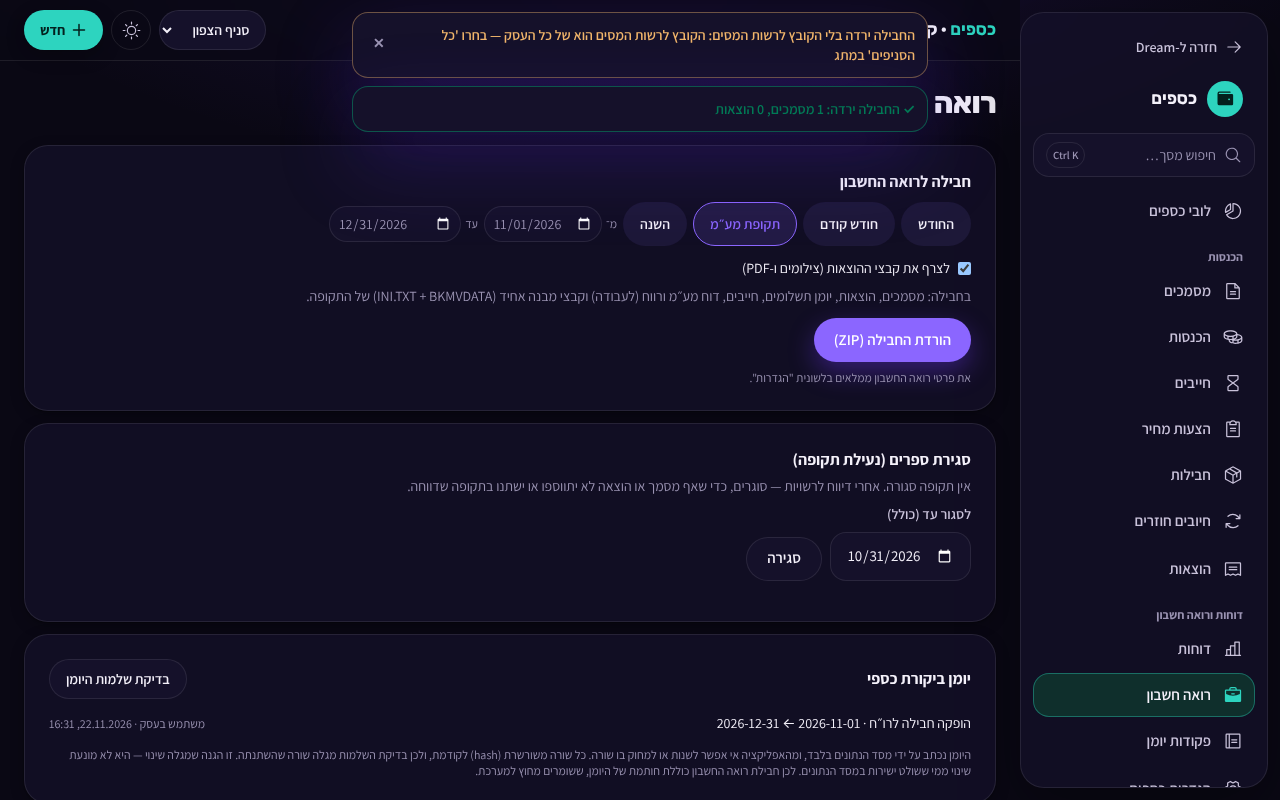
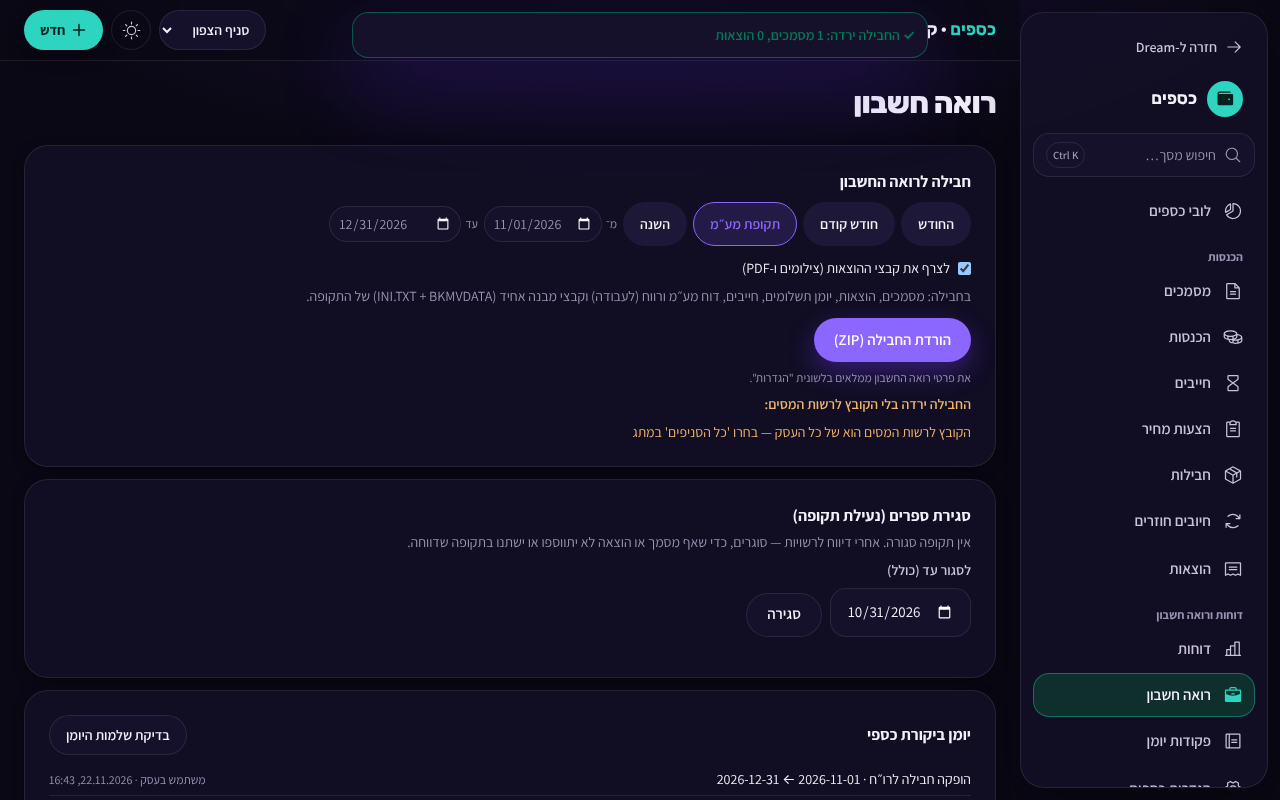
e2e: ההודעה בכרטיס (export-scope); בדיקה חדשה לכפתור 'להציג את כל הסניפים'; צילומים
Claude-Session: https://claude.ai/code/session_018yyE7BvpWCn9RuJdDRKX7d

diff --git a/dream-promotion/tests/e2e/export-scope-hidden-switch.e2e.ts b/dream-promotion/tests/e2e/export-scope-hidden-switch.e2e.ts
@@ -1,0 +1,238 @@
+/**
+ * 2.118, round 2 (complements export-scope.e2e.ts, which is left as it was): the message is now in the card "חבילה לרואה החשבון"
+ * (ScopeNote), not a toast, and with no switch at the top (one active location left, a location closed since still picked on the
+ * profile) it comes with a button "להציג את כל הסניפים".
+ *   (1) one active location + a closed one picked: the package without the Tax Authority's part, the message in the card with the button;
+ *   (2) the button: the app reloads on "all locations", and the package has INI.TXT / BKMVDATA.zip;
+ *   (3) two active locations, one picked: the message in the card, NO button (the switch is there); a member limited: the same, no button.
+ * Run: npx -y tsx tests/e2e/export-scope-hidden-switch.e2e.ts   (next dev on port 3229)
+ * Screenshots: docs/screenshots/2.117.1/ (EXPORT_SCOPE_SHOTS=<dir> to change).
+ */
+import { spawn, type ChildProcess } from 'node:child_process';
+import { mkdirSync, readFileSync } from 'node:fs';
+import path from 'node:path';
+import assert from 'node:assert/strict';
+import JSZip from 'jszip';
+import { FakeSupabase, session, type Tables } from './fake-supabase';
+
+const ROOT = path.resolve(__dirname, '../..');
+const PORT = Number(process.env.E2E_EXPORT_SCOPE2_PORT ?? 3229);
+const BASE = `http://localhost:${PORT}`;
+const SHOTS = process.env.EXPORT_SCOPE_SHOTS ?? path.join(ROOT, 'docs/screenshots/2.117.1');
+const BIZ = 'b0000000-0000-4000-8000-0000000000e1';
+const OWNER = 'a0000000-0000-4000-8000-0000000000e1';
+const NORTH = 'c0000000-0000-4000-8000-0000000000e1';
+const PHONE = { width: 390, height: 844 };
+const DESK = { width: 1280, height: 800 };
+const today = new Intl.DateTimeFormat('en-CA', { timeZone: 'Asia/Jerusalem' }).format(new Date());
+
+function seed(): Tables {
+  const base = { user_id: OWNER, business_id: BIZ, created_at: '2026-01-01T00:00:00Z' };
+  return {
+    brands: [{ ...base, name: 'קליניקה לייט', onboarded: true, industry: 'קוסמטיקה', colors: ['#6B3BF5', '#FF7FA8'], goals: [] }],
+    register_settings: [{ ...base, business_type: 'licensed', entity_type: 'company', vat_rate: 18, pay_link: '', dealer_number: '000000109', legal_name: 'קליניקה לייט בע״מ',
+      street: 'הרצל', house_no: '1', city: 'תל אביב', zip: '' }],
+    business_finance_profile: [], business_members: [{ business_id: BIZ, user_id: OWNER, role: 'owner', access: 'full' }],
+    catalog_items: [], employees: [], leads: [], sales: [], register_shifts: [], booking_services: [], booking_settings: [], appointments: [],
+    // two invoices, one in each location (the main location's id is the business's)
+    documents: [
+      { ...base, id: '90000000-0000-4000-8000-0000000000e1', doc_type: 305, doc_number: 1, link_no: 1, issued_at: `${today}T08:00:00Z`, doc_date: today,
+        customer_name: 'דנה כהן', customer_phone: '', customer_dealer: '', lead_id: null, before_discount: 500, discount: 0, after_discount: 500, vat_amount: 90, total: 590,
+        vat_rate: 18, lines: [{ name: 'טיפול', qty: 1, unitPriceExVat: 500, discountExVat: 0, totalExVat: 500, vatRate: 18, kind: 1 }], payments: [], print_count: 1,
+        share_token: 'a'.repeat(64), issuer: null, source: 'direct', due_date: today, notes: '', location_id: BIZ },
+      { ...base, id: '90000000-0000-4000-8000-0000000000e2', doc_type: 305, doc_number: 2, link_no: 2, issued_at: `${today}T09:00:00Z`, doc_date: today,
+        customer_name: 'מיכל לוי', customer_phone: '', customer_dealer: '', lead_id: null, before_discount: 200, discount: 0, after_discount: 200, vat_amount: 36, total: 236,
+        vat_rate: 18, lines: [{ name: 'טיפול', qty: 1, unitPriceExVat: 200, discountExVat: 0, totalExVat: 200, vatRate: 18, kind: 1 }], payments: [], print_count: 1,
+        share_token: 'b'.repeat(64), issuer: null, source: 'direct', due_date: today, notes: '', location_id: NORTH },
+    ],
+    payments: [], expenses: [], sale_refunds: [], stock_movements: [], content: [], media: [], ad_drafts: [], pronunciations: [], lead_activities: [],
+    push_subscriptions: [], quotes: [], document_drafts: [], document_cancellations: [], tax_allocations: [], finance_audit_log: [], finance_access_grants: [],
+    payment_requests: [], payment_plans: [], payment_plan_items: [], client_packages: [], client_package_uses: [], client_sessions: [], client_treatments: [], treatment_types: [],
+    business_locations: [{ id: NORTH, business_id: BIZ, name: 'סניף הצפון', kind: 'branch', address: 'הנשיא 5, חיפה', phone: '', hours: '', active: false, sort: 1, created_at: '2026-02-01T00:00:00Z' }],
+    registers: [],
+    tax_allocation_rules: [{ version: 4, effective_from: '2026-06-01', threshold_before_vat: 5000, doc_types: [305, 320], requires_customer_dealer: true, verified: false, source_note: 'מקורות משניים' }],
+  };
+}
+
+async function waitForServer(dev: ChildProcess) {
+  let out = '';
+  await new Promise<void>((resolve, reject) => {
+    const t = setTimeout(() => reject(new Error(`next dev did not start:\n${out}`)), 120_000);
+    const on = (b: Buffer) => { out += b.toString(); if (/Ready|ready on|started server/i.test(out)) { clearTimeout(t); resolve(); } };
+    dev.stdout?.on('data', on); dev.stderr?.on('data', on);
+    dev.on('exit', (c) => { clearTimeout(t); reject(new Error(`next dev exited ${c}\n${out}`)); });
+  });
+}
+
+async function main() {
+  mkdirSync(SHOTS, { recursive: true });
+  const pw: any = await import(process.env.PLAYWRIGHT_PATH ?? 'playwright').catch(() => import('/opt/node-tools/node_modules/playwright/index.js' as string));
+  const { chromium } = pw.default ?? pw;
+  const dev = spawn('npx', ['next', 'dev', '-p', String(PORT)], {
+    cwd: ROOT, stdio: ['ignore', 'pipe', 'pipe'], detached: true,
+    env: { ...process.env, NEXT_PUBLIC_SUPABASE_URL: 'http://sb.test', NEXT_PUBLIC_SUPABASE_ANON_KEY: 'anon-test-key', NEXT_TELEMETRY_DISABLED: '1' },
+  });
+  const results: { name: string; ok: boolean; error?: string }[] = [];
+  const browser = await (async () => { await waitForServer(dev); return chromium.launch(); })();
+  for (const p of ['/finance/accountant', '/finance']) { for (let i = 0; i < 3; i++) { const ok = await fetch(`${BASE}${p}`).then((r) => r.ok, () => false); if (ok) break; } }
+  const fake = new FakeSupabase(seed(), { businessId: BIZ, userId: OWNER, email: 'owner@clinic.test' });
+  const errors: string[] = [];
+  const said: string[] = [];
+  const calls: string[] = [];
+  async function context(viewport: { width: number; height: number }) {
+    const phone = viewport.width < 600;
+    const ctx = await browser.newContext({ viewport, locale: 'he-IL', timezoneId: 'Asia/Jerusalem', ...(phone ? { deviceScaleFactor: 2, isMobile: true, hasTouch: true } : {}) });
+    await ctx.addInitScript(([k, v]: string[]) => { if (!localStorage.getItem(k)) localStorage.setItem(k, v); }, ['sb-sb-auth-token', JSON.stringify(session(OWNER, 'owner@clinic.test'))]);
+    const cors = { 'access-control-allow-origin': '*', 'access-control-allow-headers': '*', 'access-control-allow-methods': '*', 'access-control-expose-headers': '*' };
+    await ctx.route('http://sb.test/**', async (route: any) => {
+      const req = route.request();
+      if (req.method() === 'OPTIONS') return route.fulfill({ status: 204, headers: cors });
+      const where = `${req.method()} ${req.url().replace('http://sb.test', '').slice(0, 140)}`;
+      try {
+        const r = fake.handle(req.method(), req.url(), await req.allHeaders(), req.postData());
+        calls.push(`${r.status} ${where}${r.status >= 400 ? ` ${String(r.body ?? '').slice(0, 160)}` : ''}`); calls.splice(0, calls.length - 14);
+        return route.fulfill({ status: r.status, body: r.body ?? '', headers: { ...(r.headers ?? {}), ...cors } });
+      } catch (e: any) {
+        calls.push(`THROW ${where}: ${e?.message}`);
+        return route.fulfill({ status: 500, json: { message: `fake: ${e?.message}` }, headers: cors });
+      }
+    });
+    await ctx.route(`${BASE}/api/business/me`, (r: any) => r.fulfill({ json: { business: { id: BIZ, name: 'קליניקה לייט', state: 'active' },
+      businesses: [{ id: BIZ, name: 'קליניקה לייט', state: 'active' }], superAdmin: false, access: 'full' } }));
+    await ctx.route(`${BASE}/api/admin/me`, (r: any) => r.fulfill({ json: { admin: false } }));
+    await ctx.route(`${BASE}/api/doc/sign-status`, (r: any) => r.fulfill({ json: { configured: false } }));
+    await ctx.route(`${BASE}/api/notify/sale`, (r: any) => r.fulfill({ json: { sent: 0 } }));
+    await ctx.route(`${BASE}/api/finance/tax/status`, (r: any) => r.fulfill({ json: { mode: 'unconfigured', configured: false, connection: null, message: 'החיבור לרשות המסים לא הוגדר.' } }));
+    await ctx.route(`${BASE}/api/client-file/**`, (r: any) => r.fulfill({ status: 403, json: { code: 'no_access', message: 'אין גישה' } }));
+    await ctx.route(`${BASE}/api/store/payments`, (r: any) => r.fulfill({ json: { connected: false, provider: null, mode: null, hint: '', connectedAt: null, ready: false, liveOpen: false, verifiedAt: null, linksLive: false } }));
+    ctx.setDefaultTimeout(30_000); ctx.setDefaultNavigationTimeout(180_000);
+    const page = await ctx.newPage();
+    page.on('pageerror', (e: Error) => errors.push(e.message));
+    page.on('dialog', (d: any) => { said.push(d.message()); return d.accept(); });
+    return { ctx, page };
+  }
+  const { page } = await context(DESK);
+  const goto = async (to: string, p: any = page) => {
+    try { return await p.goto(`${BASE}${to}`, { waitUntil: 'domcontentloaded' }); }
+    catch (e: any) { if (!/ERR_ABORTED/.test(String(e?.message))) throw e; return p.goto(`${BASE}${to}`, { waitUntil: 'domcontentloaded' }); }
+  };
+  const step = async (name: string, fn: () => Promise<void>) => {
+    try { await fn(); results.push({ name, ok: true }); console.log(`ok - ${name}`); }
+    catch (e: any) { results.push({ name, ok: false, error: e.message }); console.log(`not ok - ${name}\n  ${String(e.message).split('\n').slice(0, 8).join('\n  ')}\n  last requests:\n    ${calls.join('\n    ')}`); }
+  };
+  const theSwitch = (p: any = page) => p.locator('select[aria-label="הסניף שעובדים בו"]:visible');
+  const accountant = async (p: any = page) => { await goto('/finance/accountant', p); await p.getByRole('heading', { name: 'רואה חשבון', exact: true }).waitFor({ timeout: 120_000 }); };
+  const download = async (p: any = page) => {
+    const [dl] = await Promise.all([p.waitForEvent('download', { timeout: 60_000 }), p.getByRole('button', { name: 'הורדת החבילה (ZIP)' }).click()]);
+    const zip = await JSZip.loadAsync(readFileSync(await dl.path()));
+    return Object.keys(zip.files);
+  };
+  const OF = ['INI.TXT', 'BKMVDATA.zip', 'סיכום-הפקה-ממשק-פתוח.html', 'דוח-מסמכים-לפי-סוג.html'];
+  const REST = ['מסמכים.csv', 'הוצאות.csv', 'יומן-תשלומים.csv', 'חייבים.csv'];
+  const has = (names: string[], f: string) => names.some((n) => n.endsWith(f));
+  /** nothing sideways; the message is in a Hebrew right-to-left block, not clipped */
+  const fits = async (p: any, what: string) => {
+    const [sw, iw] = await p.evaluate(() => [document.documentElement.scrollWidth, window.innerWidth]);
+    assert.ok(sw <= iw + 1, `${what}: the page scrolls sideways (${sw} > ${iw})`);
+  };
+  const shot = async (p: any, name: string) => { await p.waitForTimeout(400); await p.screenshot({ path: path.join(SHOTS, name) }); };
+  const pickNorth = async (p: any = page) => {
+    await Promise.all([p.waitForEvent('framenavigated', { timeout: 60_000 }), theSwitch(p).selectOption({ label: 'סניף הצפון' })]);
+    await p.getByRole('heading', { name: 'רואה חשבון', exact: true }).waitFor({ timeout: 120_000 });
+  };
+  const MSG_ALL = "הקובץ לרשות המסים הוא של כל העסק — בחרו 'כל הסניפים' במתג";
+  const MSG_LIMITED = 'רק מי שרואה את כל הסניפים יכול להפיק את הקובץ לרשות המסים';
+
+  const NOTE = 'החבילה ירדה בלי הקובץ לרשות המסים:';
+  const card = (p: any) => p.locator('div', { has: p.getByRole('button', { name: 'הורדת החבילה (ZIP)' }) }).last();
+  const note = (p: any) => p.getByRole('alert').filter({ hasText: /הקובץ לרשות המסים|רק מי שרואה/ });
+  const SHOWALL = (p: any) => p.getByRole('button', { name: 'להציג את כל הסניפים' });
+  const inCard = async (p: any, msg: string) => {
+    await p.getByText(NOTE).waitFor();
+    const n = note(p); await n.waitFor();
+    assert.ok((await n.innerText()).includes(msg), `the note says: ${msg}`);
+    assert.equal(await n.evaluate((e: Element) => getComputedStyle(e).direction), 'rtl');
+    // the note sits inside the accountant's package card, not in a floating toast
+    assert.ok(await p.getByRole('button', { name: 'הורדת החבילה (ZIP)' }).evaluate((b: Element, el: Element) => { let c: Element | null = b; while (c) { if (c.contains(el)) return true; c = c.parentElement; if (c && c.tagName === 'MAIN') break; } return false; }, await n.elementHandle()), 'in the card');
+  };
+
+  try {
+    await step('(1) one active location, a closed one still picked: no switch, the package without the file, the message in the card with the button', async () => {
+      fake.currentLocation = NORTH;
+      await accountant();
+      assert.equal(await theSwitch().count(), 0, 'no switch: one active location');
+      const names = await download();
+      for (const f of REST) assert.ok(has(names, f), `${f} is in the package`);
+      for (const f of OF) assert.ok(!has(names, f), `${f} is not in the package (${names.join(', ')})`);
+      await inCard(page, MSG_ALL);
+      await SHOWALL(page).waitFor();
+      await fits(page, 'computer');
+      await shot(page, 'export-scope-no-switch-desktop-1280.png');
+      const m = await context(PHONE);
+      await accountant(m.page);
+      await download(m.page);
+      await inCard(m.page, MSG_ALL);
+      await SHOWALL(m.page).waitFor();
+      assert.ok((await SHOWALL(m.page).boundingBox()).height >= 36, 'the button is a finger-sized target');
+      await fits(m.page, 'phone 390');
+      await m.page.getByRole('button', { name: 'הורדת החבילה (ZIP)' }).scrollIntoViewIfNeeded();
+      await shot(m.page, 'export-scope-no-switch-phone-390.png');
+      await m.ctx.close();
+    });
+
+    await step('(2) "להציג את כל הסניפים": the app reloads on all locations, and the package has INI.TXT and BKMVDATA.zip', async () => {
+      await Promise.all([page.waitForEvent('framenavigated', { timeout: 60_000 }), SHOWALL(page).click()]);
+      await page.getByRole('heading', { name: 'רואה חשבון', exact: true }).waitFor({ timeout: 120_000 });
+      assert.equal(fake.currentLocation, null);
+      const names = await download();
+      for (const f of [...REST, ...OF]) assert.ok(has(names, f), `${f} is in the package (${names.join(', ')})`);
+      assert.equal(await note(page).count(), 0, 'no note when the file is made');
+    });
+
+    await step('(3) two active locations, one picked: the message in the card without the button; a member limited: the same', async () => {
+      fake.tables.business_locations.find((l) => l.id === NORTH)!.active = true;
+      fake.currentLocation = NORTH;
+      await accountant();
+      await theSwitch().waitFor();
+      await download();
+      await inCard(page, MSG_ALL);
+      assert.equal(await SHOWALL(page).count(), 0, 'the switch is there — no button');
+      await fits(page, 'computer');
+      await shot(page, 'export-scope-all-branches-desktop-1280.png');
+      const m = await context(PHONE);
+      await accountant(m.page);
+      await download(m.page);
+      await inCard(m.page, MSG_ALL);
+      await fits(m.page, 'phone 390');
+      await m.page.getByRole('button', { name: 'הורדת החבילה (ZIP)' }).scrollIntoViewIfNeeded();
+      await shot(m.page, 'export-scope-all-branches-phone-390.png');
+      await m.ctx.close();
+      fake.memberLocations = [NORTH]; fake.currentLocation = null;
+      await accountant();
+      await download();
+      await inCard(page, MSG_LIMITED);
+      assert.equal(await SHOWALL(page).count(), 0, 'a limited member cannot show all — no button');
+      await fits(page, 'limited, computer');
+      await shot(page, 'export-scope-limited-desktop-1280.png');
+      const l = await context(PHONE);
+      await accountant(l.page);
+      await download(l.page);
+      await inCard(l.page, MSG_LIMITED);
+      await fits(l.page, 'limited, phone 390');
+      await l.page.getByRole('button', { name: 'הורדת החבילה (ZIP)' }).scrollIntoViewIfNeeded();
+      await shot(l.page, 'export-scope-limited-phone-390.png');
+      await l.ctx.close();
+      fake.memberLocations = null;
+    });
+
+    await step('no error in the browser', async () => { assert.deepEqual(errors, []); });
+  } finally {
+    await browser.close();
+    try { process.kill(-dev.pid!, 'SIGTERM'); } catch { /* already gone */ }
+  }
+  const failed = results.filter((r) => !r.ok);
+  console.log(`\n${results.length - failed.length}/${results.length} passed`);
+  process.exit(failed.length ? 1 : 0);
+}
+
+main().catch((e) => { console.error(e); process.exit(1); });

diff --git a/dream-promotion/tests/e2e/export-scope.e2e.ts b/dream-promotion/tests/e2e/export-scope.e2e.ts
@@ -163,7 +163,8 @@ async function main() {
       for (const f of OF) assert.ok(!has(names, f), `${f} is not in the package (${names.join(', ')})`);
       assert.ok(!names.some((n) => n.includes('OPENFRMT')), 'no OPENFRMT folder');
       await page.getByText(/החבילה ירדה: 1 מסמכים/).waitFor();
-      const msg = page.getByText(`החבילה ירדה בלי הקובץ לרשות המסים: ${MSG_ALL}`);
+      await page.getByText('החבילה ירדה בלי הקובץ לרשות המסים:').waitFor();   // 2.117.1: the note is a card (ScopeNote) — the heading, and the message on its own line
+      const msg = page.getByText(MSG_ALL);
       await msg.waitFor();
       assert.equal(await msg.evaluate((e: Element) => getComputedStyle(e).direction), 'rtl', 'the message is right-to-left');
       await fits(page, 'computer');
@@ -173,7 +174,8 @@ async function main() {
       await theSwitch(m.page).waitFor();
       assert.equal(await theSwitch(m.page).inputValue(), NORTH, 'the phone shows the same location');
       await download(m.page);
-      await m.page.getByText(`החבילה ירדה בלי הקובץ לרשות המסים: ${MSG_ALL}`).waitFor();
+      await m.page.getByText('החבילה ירדה בלי הקובץ לרשות המסים:').waitFor();
+      await m.page.getByText(MSG_ALL).waitFor();
       await fits(m.page, 'phone 390');
       await shot(m.page, 'export-scope-all-branches-phone-390.png');
       await m.ctx.close();
@@ -186,7 +188,8 @@ async function main() {
       assert.equal(await theSwitch().count(), 0, 'one location to work in: no switch');
       const names = await download();
       for (const f of OF) assert.ok(!has(names, f), `${f} is not in the package (${names.join(', ')})`);
-      const msg = page.getByText(`החבילה ירדה בלי הקובץ לרשות המסים: ${MSG_LIMITED}`);
+      await page.getByText('החבילה ירדה בלי הקובץ לרשות המסים:').waitFor();   // 2.117.1: the note is a card (ScopeNote) — the heading, and the message on its own line
+      const msg = page.getByText(MSG_LIMITED);
       await msg.waitFor();
       assert.equal(await page.getByText(MSG_ALL).count(), 0, 'not the "pick all" message — they cannot');
       await fits(page, 'limited, computer');
@@ -194,7 +197,8 @@ async function main() {
       const m = await context(PHONE);
       await accountant(m.page);
       await download(m.page);
-      await m.page.getByText(`החבילה ירדה בלי הקובץ לרשות המסים: ${MSG_LIMITED}`).waitFor();
+      await m.page.getByText('החבילה ירדה בלי הקובץ לרשות המסים:').waitFor();
+      await m.page.getByText(MSG_LIMITED).waitFor();
       await fits(m.page, 'limited, phone 390');
       await shot(m.page, 'export-scope-limited-phone-390.png');
       await m.ctx.close();
